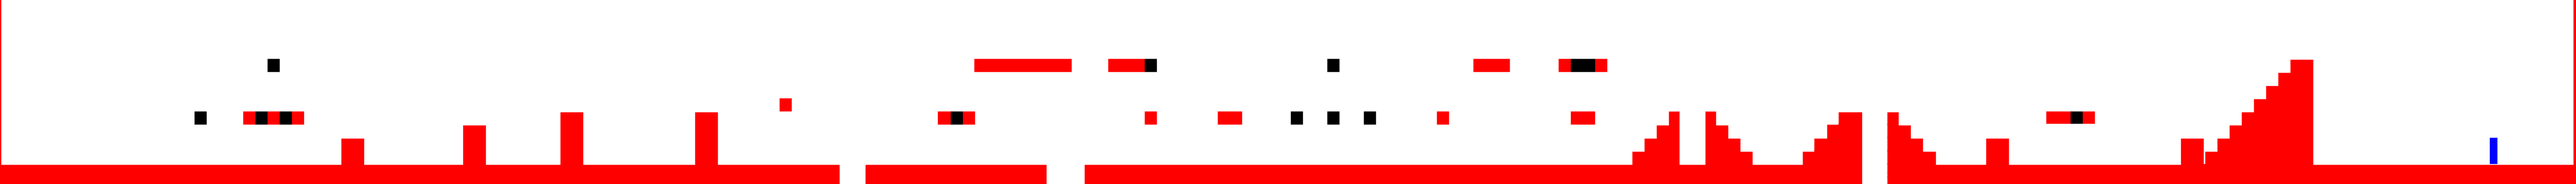
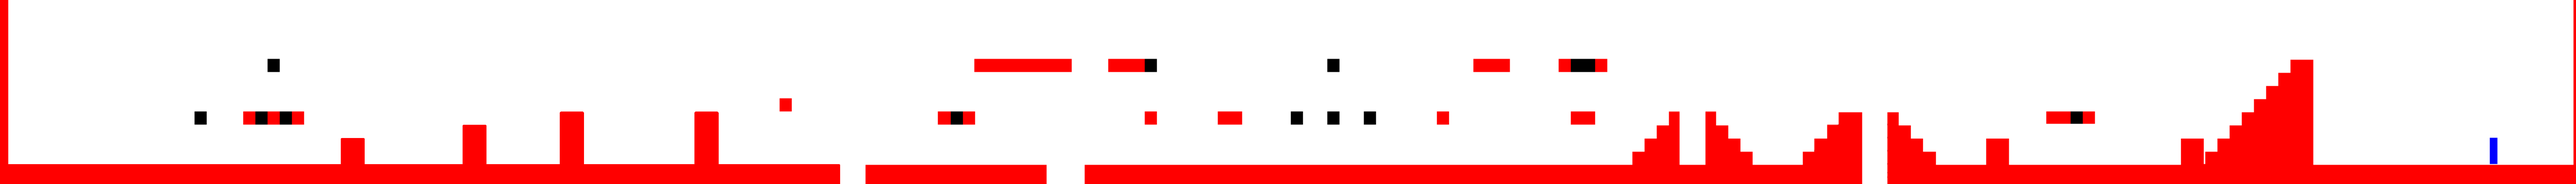
왼쪽 벽 통과 버그 수정

Changed region(s): [[0.0, 0.87, 0.3114, 0.9]]

diff --git a/project1_supermario/src/project_supermario_2/BackgroundMapService.java b/project1_supermario/src/project_supermario_2/BackgroundMapService.java
@@ -79,6 +79,8 @@ public class BackgroundMapService {
 			
 			// 부딪히는 색상이 빨강색일때 true
 			if (red == 255 && green == 0 && blue == 0) {
+				System.out.println("빨강벽 접촉 ");
+				System.out.println(color);
 				return true;
 				// 부딪히는 색상이 파랑색일때 ( == 게임 마지막 성에 도착했을때 )
 			} else if (red == 0 && green == 0 && blue == 255) {

diff --git a/project1_supermario/src/project_supermario_2/Player.java b/project1_supermario/src/project_supermario_2/Player.java
@@ -90,8 +90,8 @@ public class Player extends JLabel implements Moveable {
 			@Override
 			public void run() {
 				while (left) {
-					service.checkLeftWall();
 					if (!service.checkLeftWall()) {
+						service.checkLeftWall();
 						service.checkBottomColor();
 						player = playerL;
 						setIcon(player);

diff --git a/project1_supermario/src/project_supermario_2/SuperMarioFrame.java b/project1_supermario/src/project_supermario_2/SuperMarioFrame.java
@@ -97,7 +97,7 @@ public class SuperMarioFrame extends JFrame {
 							@Override
 							public void run() {
 								for (int i = 0; i < 8; i++) {
-									if (pointX <= 0) {
+									if (pointX <= -20) {
 										pointX = pointX + 3;
 										bgMap.setLocation(pointX, pointY);
 										try {

diff --git a/project1_supermario/src/project_supermario_2/Monster.java b/project1_supermario/src/project_supermario_2/Monster.java
@@ -93,7 +93,6 @@ public class Monster extends JLabel {
 				}
 
 			}
-
 		}).start();
 	}
 
